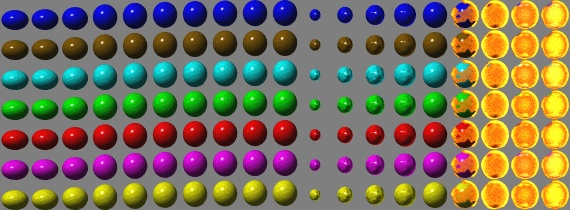
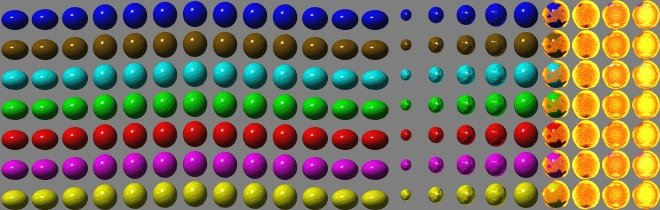
Reworked balls.jpg to make animation implementation easier. Balls can be moved to new location. No path finding yet.
svn path=/trunk/KDE/kdegames/klines/; revision=615729

diff --git a/ballitem.cpp b/ballitem.cpp
@@ -29,13 +29,14 @@ BallItem::BallItem( QGraphicsScene* parent, const KLinesRenderer* renderer )
     : QGraphicsPixmapItem( 0, parent ), m_renderer(renderer)
 {
     m_color = NumColors; // = uninitialized
+    m_timeLine.setCurveShape( QTimeLine::LinearCurve );
     connect(&m_timeLine, SIGNAL(frameChanged(int)), SLOT(animFrameChanged(int)) );
 }
 
 void BallItem::setColor( BallColor c )
 {
     m_color = c;
-    setPixmap( m_renderer->ballPixmap(c) );
+    //setPixmap( m_renderer->ballPixmap(c) );
 }
 
 void BallItem::startAnimation( BallAnimationType type )
@@ -46,16 +47,14 @@ void BallItem::startAnimation( BallAnimationType type )
         case SelectedAnimation:
             m_timeLine.setDuration(400);
             m_timeLine.setLoopCount(0);
-            m_timeLine.setCurveShape( QTimeLine::LinearCurve );
-            // in a balls.jpg we have 9 effective frames
-            // of raising the ball up. lowing down frames are the
-            // same 9 frames only played in opposite direction.
-            // So I setup timeline for 0-18 frame range and in animFrameChanged()
-            // i'll make sure that after frame number will go past 9 it
-            // will be recalculated to be 8,7,6,...,0 etc
-            m_timeLine.setFrameRange(0, 9*2);
+            m_timeLine.setFrameRange(0, m_renderer->numAnimationFrames(SelectedAnimation)-1);
             // starting by going lower
             m_timeLine.setCurrentTime( m_timeLine.duration()/2 );
+            break;
+        case BornAnimation:
+            m_timeLine.setDuration(200);
+            m_timeLine.setLoopCount(1);
+            m_timeLine.setFrameRange(0, (m_renderer->numAnimationFrames(BornAnimation)-1));
             break;
     }
     m_timeLine.start();
@@ -63,10 +62,13 @@ void BallItem::startAnimation( BallAnimationType type )
 
 void BallItem::stopAnimation()
 {
+    m_timeLine.stop();
+
+    // type dependant actions:
     switch(m_curAnim)
     {
+        case BornAnimation:
         case SelectedAnimation:
-            m_timeLine.stop();
             setPixmap( m_renderer->ballPixmap(m_color) );
             break;
     }
@@ -74,16 +76,7 @@ void BallItem::stopAnimation()
 
 void BallItem::animFrameChanged(int frame)
 {
-    switch(m_curAnim)
-    {
-        case SelectedAnimation:
-            // if frame > 9, make it go in opposite direction
-            // See also comment in startAnimation()
-            if(frame > 9)
-                frame = frame - (frame-9)*2;
-            setPixmap(m_renderer->animationFrame( m_color, m_curAnim, frame ));
-            break;
-    }
+    setPixmap(m_renderer->animationFrame( m_color, m_curAnim, frame ));
 }
 
 #include "ballitem.moc"

diff --git a/scene.cpp b/scene.cpp
@@ -43,7 +43,7 @@ void KLinesView::resizeEvent( QResizeEvent* ev )
 // =============== KLinesScene =======================
 
 KLinesScene::KLinesScene( QObject* parent )
-    : QGraphicsScene(parent), m_selectedBall(0), m_numBalls(0)
+    : QGraphicsScene(parent), m_numBalls(0)
 {
     m_renderer = new KLinesRenderer;
 
@@ -93,25 +93,42 @@ void KLinesScene::placeRandomBall()
 
     BallItem* newBall = new BallItem( this, m_renderer );
     newBall->setColor(c);
-    newBall->setPos( fieldToPix(posx,posy) );
+    newBall->setPos( fieldToPix( FieldPos(posx,posy) ) );
     m_field[posx][posy] = newBall;
 
-    //newBall->startAnimation( BornAnimation );
+    newBall->startAnimation( BornAnimation );
     m_numBalls++;
 }
 
 void KLinesScene::mousePressEvent( QGraphicsSceneMouseEvent* ev )
 {
-    int fx = pixToFieldX(ev->scenePos());
-    int fy = pixToFieldY(ev->scenePos());
+    FieldPos fpos = pixToField(ev->scenePos());
 
-    if( m_field[fx][fy] )
+    if( m_field[fpos.x][fpos.y] ) // ball was selected
     {
-        if( m_selectedBall )
-            m_selectedBall->stopAnimation();
+        if( m_selPos.isValid() )
+            m_field[m_selPos.x][m_selPos.y]->stopAnimation();
 
-        m_field[fx][fy]->startAnimation( SelectedAnimation );
-        m_selectedBall = m_field[fx][fy];
+        m_field[fpos.x][fpos.y]->startAnimation( SelectedAnimation );
+        m_selPos = fpos;
+    }
+    else // move selected ball to new location
+    {
+        if( m_selPos.isValid() && m_field[fpos.x][fpos.y] == 0 )
+        {
+            // FIXME dimsuz: check if we have a valid path to desired point
+            // FIXME dimsuz: start animating move, rather than placing immediately
+            BallItem *selectedBall = m_field[m_selPos.x][m_selPos.y];
+            selectedBall->stopAnimation();
+            selectedBall->setPos( fieldToPix(fpos) );
+
+            m_field[m_selPos.x][m_selPos.y] = 0; // no more ball here
+            m_field[fpos.x][fpos.y] = selectedBall;
+
+            m_selPos.x = m_selPos.y = -1; // invalidate position
+
+            nextThreeBalls();
+        }
     }
 }
 

diff --git a/scene.h b/scene.h
@@ -45,6 +45,15 @@ public:
      *  Brings in next three balls to scene
      */
     void nextThreeBalls();
+private:
+    struct FieldPos
+    {
+        int x;
+        int y;
+        FieldPos( int _x=-1, int _y=-1) : x(_x), y(_y) { }
+        bool isValid() const { return (x != -1 && y != -1); }
+    };
+
     /**
      *  Creates a ball of random color and places it in random free cell
      */
@@ -53,12 +62,12 @@ public:
     /**
      *  Field coords to pixel coords
      */
-    inline QPointF fieldToPix(int fieldX, int fieldY) const {
-        return QPointF( fieldX*32+2, fieldY*32+2 );
+    inline QPointF fieldToPix(const FieldPos& fpos) const {
+        return QPointF( fpos.x*32+2, fpos.y*32+2 );
     }
-    inline int pixToFieldX( const QPointF& p ) const { return static_cast<int>(p.x()/32); }
-    inline int pixToFieldY( const QPointF& p ) const { return static_cast<int>(p.y()/32); }
-private:
+    inline FieldPos pixToField( const QPointF& p ) const { 
+        return FieldPos(static_cast<int>(p.x()/32), static_cast<int>(p.y()/32)); }
+
     virtual void drawBackground( QPainter*, const QRectF& );
     virtual void mousePressEvent( QGraphicsSceneMouseEvent* );
 
@@ -69,11 +78,13 @@ private:
      */
     BallItem* m_field[FIELD_SIZE][FIELD_SIZE];
     KLinesRenderer* m_renderer;
+
     KRandomSequence m_randomSeq;
+
     /**
-     *  Currently selected ball (0 if none)
+     *  Position of selected ball (-1,-1) if none
      */
-    BallItem *m_selectedBall;
+    FieldPos m_selPos;
     /**
      *  Number of balls currently in field
      */

diff --git a/renderer.cpp b/renderer.cpp
@@ -37,7 +37,7 @@ QPixmap KLinesRenderer::ballPixmap(BallColor color) const
     // Switching to svg will make this fixmes obsolete
     
     // col, row, width, height - hardcoded. balls.jpg has such a format.
-    return m_ballsPix.copy( 9*30, static_cast<int>(color)*30, 30, 30 );
+    return m_ballsPix.copy( 7*30, static_cast<int>(color)*30, 30, 30 );
 }
 
 QPixmap KLinesRenderer::animationFrame( BallColor color, BallAnimationType type, int frameNo ) const
@@ -48,6 +48,8 @@ QPixmap KLinesRenderer::animationFrame( BallColor color, BallAnimationType type,
 
     switch(type)
     {
+        case BornAnimation:
+            return m_ballsPix.copy( 13*30 + frameNo*30, static_cast<int>(color)*30, 30, 30 );
         case SelectedAnimation:
             return m_ballsPix.copy( frameNo*30, static_cast<int>(color)*30, 30, 30 );
         default:

diff --git a/renderer.h b/renderer.h
@@ -34,6 +34,20 @@ public:
     QPixmap ballPixmap( BallColor c ) const;
     QPixmap animationFrame( BallColor c, BallAnimationType t, int frameNo ) const;
     QPixmap backgroundTilePixmap() const;
+
+    inline int numAnimationFrames(BallAnimationType t) const
+    {
+        switch(t)
+        {
+            case SelectedAnimation:
+                return 13;
+            case BornAnimation:
+                return 5;
+            case BurnAnimation:
+                return 4;
+        }
+        return 0;
+    }
 private:
     QPixmap m_ballsPix; // to be removed when SVG comes to us
     QPixmap m_fieldPix; // to be removed when SVG comes to us
